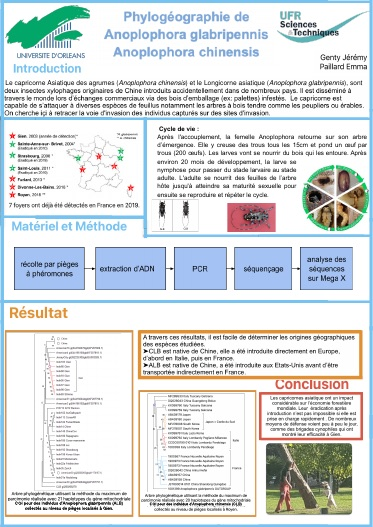
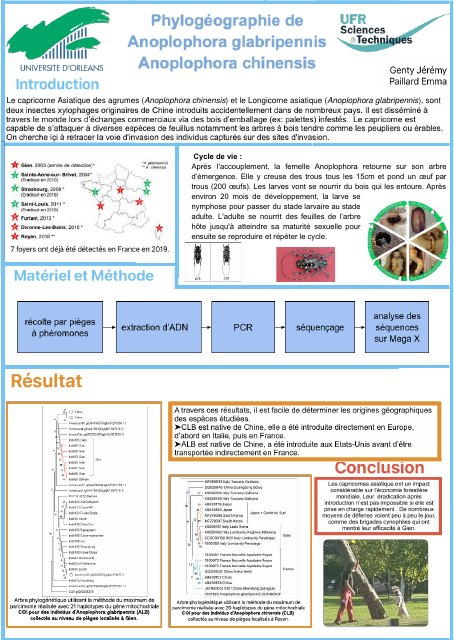
Vignettes des travaux de formation : pages de garde des rapports et poster du capricorne net

diff --git a/index.html b/index.html
@@ -134,27 +134,28 @@
 <h2>Autres travaux de formation</h2>
 <div class="travaux">
 <article class="travail" id="capricorne">
-<a href="documents/Poster_capricorne_asiatique_Genty_Paillard.pdf"><img alt="Aperçu du poster sur la phylogéographie du capricorne asiatique" class="portrait" loading="lazy" src="images/capricorne_poster.jpg"/></a>
+<a href="documents/Poster_capricorne_asiatique_Genty_Paillard.pdf"><img alt="Aperçu du poster sur la phylogéographie du capricorne asiatique" class="document" loading="lazy" src="images/capricorne_poster.jpg"/></a>
 <div>
 <p class="etiquette">M1 · Biologie évolutive · 2023 · avec Emma Paillard</p>
 <h3>Phylogéographie du capricorne asiatique</h3>
 <details class="detail"><summary>Détails et document</summary><p>Retracer les voies d'invasion d'<i>Anoplophora glabripennis</i> et d'<i>A. chinensis</i> en France à partir de séquences ADN : piégeage, PCR, séquençage du gène COI, arbres phylogénétiques sous MEGA.</p><ul class="outils"><li>Espèces invasives</li><li>Santé des forêts</li><li>Génétique</li></ul><p class="liens"><a href="documents/Poster_capricorne_asiatique_Genty_Paillard.pdf">Poster (PDF)</a></p></details></div>
 </article>
 <article class="travail" id="sandillon">
-<a href="documents/Restauration_carriere_Sandillon_Bellin_Genty.pdf"><img alt="Carte des points de relevés faune et flore sur la carrière de Sandillon" loading="lazy" src="images/sandillon_releves.jpg"/></a>
+<a href="documents/Restauration_carriere_Sandillon_Bellin_Genty.pdf"><img alt="Page de garde du rapport sur la restauration de la carrière de Sandillon" class="document" loading="lazy" src="images/couv_sandillon.jpg"/></a>
 <div>
 <p class="etiquette">M1 · Écologie de la restauration · 2024 · avec Claire Bellin</p>
 <h3>Restauration écologique d'une carrière (Sandillon, Loiret)</h3>
 <details class="detail"><summary>Détails et document</summary><p>Comparer des zones exploitées jusqu'en 2006 et 2016 à une zone témoin : points d'écoute des oiseaux, pièges à carabes, plaques à reptiles, relevés de flore ; similarité de Jaccard, types biologiques de Raunkiaer, valeurs écologiques d'Ellenberg.</p><ul class="outils"><li>Inventaires faune-flore</li><li>Restauration</li><li>QGIS</li><li>R</li></ul><p class="liens"><a href="documents/Restauration_carriere_Sandillon_Bellin_Genty.pdf">Rapport (PDF, 11 pages)</a></p></details></div>
 </article>
 <article class="travail" id="courpain">
-<a href="documents/Habitats_carriere_Courpain_Genty_Beaubois.pdf"><img alt="Carte des habitats de l'ancienne carrière de Courpain avec les points GPS des relevés" loading="lazy" src="images/courpain_habitats.jpg"/></a>
+<a href="documents/Habitats_carriere_Courpain_Genty_Beaubois.pdf"><img alt="Page de garde du compte rendu sur les habitats de la carrière de Courpain" class="document" loading="lazy" src="images/couv_courpain.jpg"/></a>
 <div>
 <p class="etiquette">L3 · Phytosociologie et géomatique · 2021 · avec Vélinka Beaubois</p>
 <h3>Cartographie des habitats d'une ancienne carrière (Courpain)</h3>
 <details class="detail"><summary>Détails et document</summary><p>Sur une carrière de 17 ha réaménagée : relevés de végétation géolocalisés, carte des habitats sous QGIS (4,2 ha de pelouses et prairies, 5,1 ha de plan d'eau), analyses factorielles et dendrogrammes distinguant trois grands types de végétation.</p><ul class="outils"><li>Cartographie d'habitats</li><li>GPS</li><li>QGIS</li><li>Phytosociologie</li></ul><p class="liens"><a href="documents/Habitats_carriere_Courpain_Genty_Beaubois.pdf">Compte rendu (PDF)</a></p></details></div>
 </article>
 <article class="travail">
+<a href="documents/Rouille_peuplier_phytopathologie_Genty_Delmas.pdf"><img alt="Page de garde du compte rendu sur la rouille du peuplier et le diagnostic des maladies" class="document" loading="lazy" src="images/couv_rouille.jpg"/></a>
 <div>
 <p class="etiquette">M1 · Phytopathologie · 2023-2024 · avec Garance Delmas</p>
 <h3>Rouille du peuplier et diagnostic des maladies des végétaux</h3>

diff --git a/en.html b/en.html
@@ -134,27 +134,28 @@
 <h2>Other coursework</h2>
 <div class="travaux">
 <article class="travail" id="capricorne">
-<a href="documents/Poster_capricorne_asiatique_Genty_Paillard.pdf"><img alt="Preview of the poster on the phylogeography of the Asian longhorned beetles" class="portrait" loading="lazy" src="images/capricorne_poster.jpg"/></a>
+<a href="documents/Poster_capricorne_asiatique_Genty_Paillard.pdf"><img alt="Preview of the poster on the phylogeography of the Asian longhorned beetles" class="document" loading="lazy" src="images/capricorne_poster.jpg"/></a>
 <div>
 <p class="etiquette">First-year Master's · Evolutionary biology · 2023 · with Emma Paillard</p>
 <h3>Phylogeography of the Asian longhorned beetles</h3>
 <details class="detail"><summary>Details and document</summary><p>Tracing the invasion routes of <i>Anoplophora glabripennis</i> and <i>A. chinensis</i> in France from DNA sequences: trapping, PCR, COI gene sequencing, phylogenetic trees in MEGA.</p><ul class="outils"><li>Invasive species</li><li>Forest health</li><li>Genetics</li></ul><p class="liens"><a href="documents/Poster_capricorne_asiatique_Genty_Paillard.pdf">Poster (PDF, in French)</a></p></details></div>
 </article>
 <article class="travail" id="sandillon">
-<a href="documents/Restauration_carriere_Sandillon_Bellin_Genty.pdf"><img alt="Map of fauna and flora survey points at the Sandillon quarry" loading="lazy" src="images/sandillon_releves.jpg"/></a>
+<a href="documents/Restauration_carriere_Sandillon_Bellin_Genty.pdf"><img alt="Cover page of the report on the restoration of the Sandillon quarry" class="document" loading="lazy" src="images/couv_sandillon.jpg"/></a>
 <div>
 <p class="etiquette">First-year Master's · Restoration ecology · 2024 · with Claire Bellin</p>
 <h3>Ecological restoration of a quarry (Sandillon, Loiret)</h3>
 <details class="detail"><summary>Details and document</summary><p>Comparing areas quarried until 2006 and 2016 with a control area: bird point counts, ground-beetle pitfall traps, reptile boards, plant surveys; Jaccard similarity, Raunkiaer life forms, Ellenberg indicator values.</p><ul class="outils"><li>Fauna and flora surveys</li><li>Restoration</li><li>QGIS</li><li>R</li></ul><p class="liens"><a href="documents/Restauration_carriere_Sandillon_Bellin_Genty.pdf">Report (PDF, 11 pages, in French)</a></p></details></div>
 </article>
 <article class="travail" id="courpain">
-<a href="documents/Habitats_carriere_Courpain_Genty_Beaubois.pdf"><img alt="Habitat map of the former Courpain quarry with the GPS survey points" loading="lazy" src="images/courpain_habitats.jpg"/></a>
+<a href="documents/Habitats_carriere_Courpain_Genty_Beaubois.pdf"><img alt="Cover page of the report on the habitats of the Courpain quarry" class="document" loading="lazy" src="images/couv_courpain.jpg"/></a>
 <div>
 <p class="etiquette">Bachelor's, 3rd year · Phytosociology and geomatics · 2021 · with Vélinka Beaubois</p>
 <h3>Habitat mapping of a former quarry (Courpain)</h3>
 <details class="detail"><summary>Details and document</summary><p>On a restored 17 ha quarry: georeferenced vegetation relevés, habitat map in QGIS (4.2 ha of grasslands and meadows, 5.1 ha of open water), factor analyses and dendrograms distinguishing three main vegetation types.</p><ul class="outils"><li>Habitat mapping</li><li>GPS</li><li>QGIS</li><li>Phytosociology</li></ul><p class="liens"><a href="documents/Habitats_carriere_Courpain_Genty_Beaubois.pdf">Report (PDF, in French)</a></p></details></div>
 </article>
 <article class="travail">
+<a href="documents/Rouille_peuplier_phytopathologie_Genty_Delmas.pdf"><img alt="Cover page of the report on poplar rust and plant disease diagnosis" class="document" loading="lazy" src="images/couv_rouille.jpg"/></a>
 <div>
 <p class="etiquette">First-year Master's · Plant pathology · 2023-2024 · with Garance Delmas</p>
 <h3>Poplar rust and plant disease diagnosis</h3>

diff --git a/style.css b/style.css
@@ -62,6 +62,7 @@ figure.seule{margin:14px 0;max-width:760px}
 .travail{background:var(--carte);border:1px solid var(--bord);border-radius:14px;padding:16px;display:flex;flex-direction:column;gap:10px}
 .travail img{width:100%;height:190px;object-fit:cover;object-position:top;border-radius:8px;border:1px solid var(--bord);display:block}
 .travail img.portrait{object-position:top center}
+.travail img.document{height:230px;object-fit:contain;padding:12px;background:var(--ac2)}
 .travail h3{font-size:17px;margin:2px 0 6px}.travail p{margin:4px 0;font-size:14.5px}
 
 .intro-section{max-width:760px;color:var(--mut);margin:-8px 0 12px}

diff --git a/outils/traduction_en.py b/outils/traduction_en.py
@@ -285,4 +285,8 @@ T.update({
 
 T.update({"Ouvrir la carte": "Open the map"})
 
-T.update({"Résumé imprimable (PDF, 2 pages)": "Printable summary (PDF, 2 pages, in French)"})
+T.update({"Résumé imprimable (PDF, 2 pages)": "Printable summary (PDF, 2 pages, in French)",
+"Page de garde du rapport sur la restauration de la carrière de Sandillon": "Cover page of the report on the restoration of the Sandillon quarry",
+"Page de garde du compte rendu sur les habitats de la carrière de Courpain": "Cover page of the report on the habitats of the Courpain quarry",
+"Page de garde du compte rendu sur la rouille du peuplier et le diagnostic des maladies": "Cover page of the report on poplar rust and plant disease diagnosis",
+})
